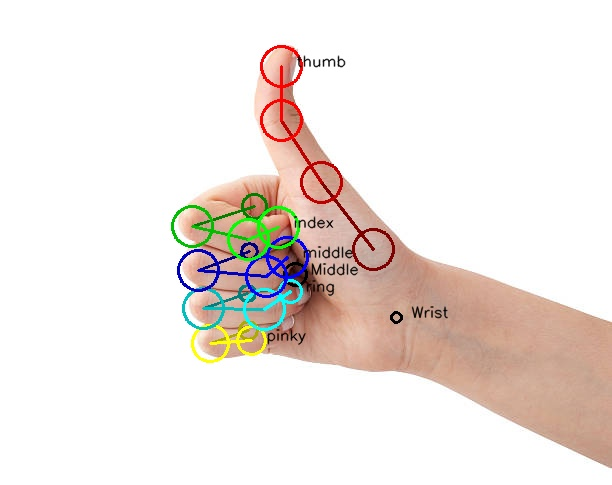
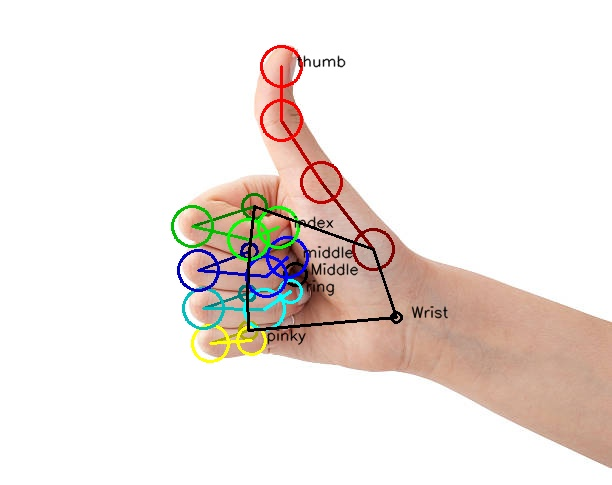
Add palm polygon drawing to main.py

Changed region(s): [[0.3725, 0.4021, 0.652, 0.7113], [0.5588, 0.4948, 0.6209, 0.5567], [0.4967, 0.4639, 0.5588, 0.4948]]

diff --git a/main.py b/main.py
@@ -115,6 +115,21 @@ with mp_hands.Hands(
 				int(pretty_data["fingers"][finger][-1].y * img.shape[0])),
 				cv2.FONT_HERSHEY_SIMPLEX, 0.5, (0,0,0), 1, cv2.LINE_AA)
 
+		# draw a polygon connecting the wrist and the bases of all the fingers
+		# this is the palm, the size of the palm will never change, so
+		# we can use it to calculate the distance between the hand and the camera
+		palm = []
+		for finger in pretty_data["fingers"]:
+			palm.append(pretty_data["fingers"][finger][0])
+		palm.append(pretty_data["wrist"])
+		palm = [int(palm[i].x * img.shape[1]) for i in range(len(palm))], [int(palm[i].y * img.shape[0]) for i in range(len(palm))]
+		print("Palm: ", palm)
+		zipped = list(zip(palm[0], palm[1]))
+		print("Zipped: ", zipped)
+		zipped.append(zipped[0])
+		for i in range(len(zipped) - 1):
+			cv2.line(annotated_image, zipped[i], zipped[i + 1], (0,0,0), drawing_size)
+		
 
 		cv2.imwrite("hand_landmarks.jpg", annotated_image)
 
